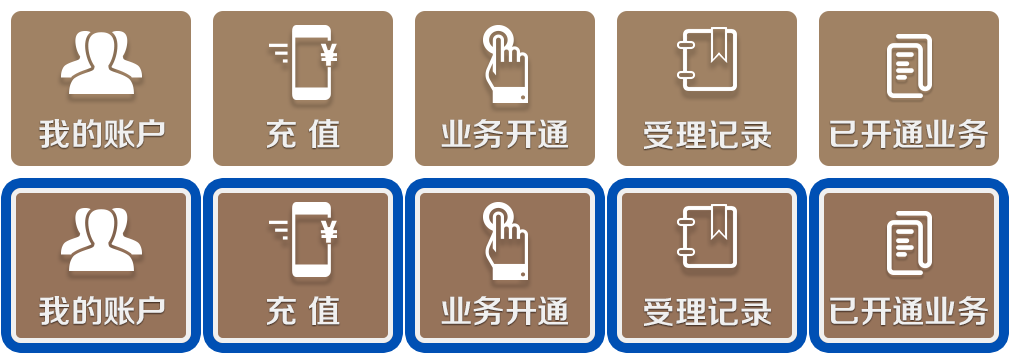
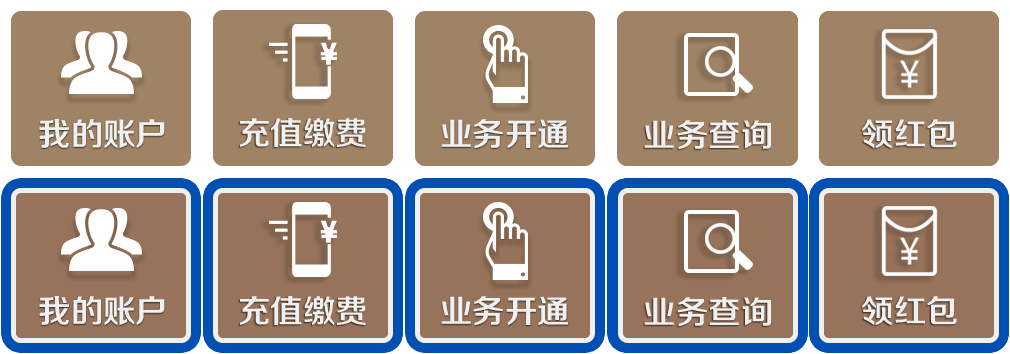
20160122
修改首页菜单图标,业务办理

diff --git a/p95_c_04.html b/p95_c_04.html
@@ -12,8 +12,8 @@
 <meta name="Description" content="chenyongen" />
 
 <!-- begin style -->
-<link rel="stylesheet" type="text/css" href="../static/public/css/public.css" />
-<link rel="stylesheet" type="text/css" href="../static/web-tvbh/css/base.css" />
+<link rel="stylesheet" type="text/css" href="../public/css/public.css" />
+<link rel="stylesheet" type="text/css" href="static/css/base.css" />
 <!-- <link rel="stylesheet" type="text/css" href="http://10.1.15.50:7002/web-tvbh/css/base.mod.css" /> -->
 <!-- end style -->
 
@@ -27,16 +27,16 @@
 <div class="j_wrap">
 	<!--begin title-->
 	<div class="c_p95title c_p94title">
-		<div class="tibg c_conpk_title"></div>
-		<div class="tibox">
+		<div class="tibg c_conpk_title" style="width:100%;"></div>
+		<!-- <div class="tibox">
 			<a class="ti c_contract onti J_c_p95con" href="javascript:;"></a>
 			<a class="ti c_product J_c_p95pro" href="javascript:;"></a>
-		</div>
+		</div> -->
 	</div>
 	<!--end title-->
 	<!--begin list-->
 	<div class="j_list c_list c_p95list">
-		<div class="j_box c_p94bli J_c_p95conbox" style="">
+		<!-- <div class="j_box c_p94bli J_c_p95conbox" style="">
 			<a class="c_bbox" href="p94_j_01.html">
 				<div class="li1">高清宽带升级合约套餐-两年-</div>
 				<div class="li2">低至<span>2014</span>元/月</div>
@@ -52,9 +52,9 @@
 				<div class="li2">低至<span>2014</span>元/月</div>
 				<div class="li3">基本收视维护费两年、10M宽带两年、双向互动服务基础产品两年、三网融合或“高清互动机顶盒+广电猫CM+WiFi”</div>
 			</a>
-		</div>
+		</div> -->
 
-		<div class="j_box c_p94bli c_p95lista J_c_p95probox" style="display:none;">
+		<div class="j_box c_p94bli c_p95lista">
 			<a href="javascript:;">
 				<span class="j_name">DOXTV海外影视</span>
 				<span class="j_sumdate">15元/月</span>
@@ -88,7 +88,7 @@
 	<div class="j_control tc">
 		<a class="j_prve" href="javascript:;"></a>
 		<a class="j_next" href="javascript:;"></a>
-		<!--<a class="j_home" href="p95_c_05.html"></a>-->
+		<a class="j_home" href="p95_c_05.html"></a>
 	</div>
 	<!--end control-->
 	<!--begin tip-->

diff --git a/p51_x_1.html b/p51_x_1.html
@@ -12,9 +12,9 @@
 <meta name="Description" content="xiewulong" />
 
 <!-- begin style -->
-<!-- <link rel="stylesheet" type="text/css" href="../static/public/css/public.css" />
-<link rel="stylesheet" type="text/css" href="../static/web-tvbh/css/base.css" /> -->
-<link rel="stylesheet" type="text/css" href="http://10.1.15.50:7002/web-tvbh/css/base.mod.css" />
+<link rel="stylesheet" type="text/css" href="../public/css/public.css" />
+<link rel="stylesheet" type="text/css" href="static/css/base.css" />
+<!-- <link rel="stylesheet" type="text/css" href="http://10.1.15.50:7002/web-tvbh/css/base.mod.css" /> -->
 <!-- end style -->
 
 </head>
@@ -57,11 +57,11 @@
 <!-- end x_entrances -->
 
 <!-- begin javascript -->
-<!-- <script type="text/javascript" src="../static/public/js/jquery.min.js"></script>
-<script type="text/javascript" src="../static/public/js/jquery.x.min.js"></script>
-<script type="text/javascript" src="../static/web-tvbh/js/base.js"></script>
-<script type="text/javascript" src="../static/web-tvbh/js/baseAjax.js"></script> -->
-<script type="text/javascript" src="http://10.1.15.50:7002/web-tvbh/js/base.mod.js"></script>
+<script type="text/javascript" src="../public/js/jquery.min.js"></script>
+<script type="text/javascript" src="../public/js/jquery.x.min.js"></script>
+<script type="text/javascript" src="static/js/base.js"></script>
+<script type="text/javascript" src="static/js/baseAjax.js"></script>
+<!-- <script type="text/javascript" src="http://10.1.15.50:7002/web-tvbh/js/base.mod.js"></script> -->
 <!-- end javascript -->
 
 </body>

diff --git a/p95_c_04_2.html b/p95_c_04_2.html
@@ -66,9 +66,9 @@
 <body>
 		<!-- begin title -->
 		<div class="title">
-			<img src="../static/web-tvbh/images/001list_title_06.png"/>
-			<a class="c_tia" href="javascript:;"><img src="../static/web-tvbh/images/001list_title_on.png"/></a>
-			<a class="c_tib" href="javascript:;"><img src="../static/web-tvbh/images/001list_title_on.png"/></a>
+			<img src="static/images/001list_title_06.png"/>
+			<!-- <a class="c_tia" href="javascript:;"><img src="../static/web-tvbh/images/001list_title_on.png"/></a>
+			<a class="c_tib" href="javascript:;"><img src="../static/web-tvbh/images/001list_title_on.png"/></a> -->
 		</div>
 		<!-- end title -->
 		<!-- begin list -->

diff --git a/p51_j_5.html b/p51_j_5.html
@@ -14,7 +14,7 @@
 <!-- begin style -->
 <!-- <link rel="stylesheet" type="text/css" href="../static/public/css/public.css" />
 <link rel="stylesheet" type="text/css" href="../static/web-tvbh/css/base.css" /> -->
-<link rel="stylesheet" type="text/css" href="http://10.1.15.50:7002/web-tvbh/css/base.mod.css" />
+<link rel="stylesheet" type="text/css" href="http://10.1.15.50:8000/static/web-tvbh/css/base.mod.css" />
 <!-- end style -->
 
 </head>

diff --git a/p51_x_2.html b/p51_x_2.html
@@ -14,7 +14,7 @@
 <!-- begin style -->
 <!-- <link rel="stylesheet" type="text/css" href="../static/public/css/public.css" />
 <link rel="stylesheet" type="text/css" href="../static/web-tvbh/css/base.css" /> -->
-<link rel="stylesheet" type="text/css" href="http://10.1.15.50:7002/web-tvbh/css/base.mod.css" />
+<link rel="stylesheet" type="text/css" href="http://10.1.15.50:8000/static/web-tvbh/css/base.mod.css" />
 <!-- end style -->
 
 </head>
